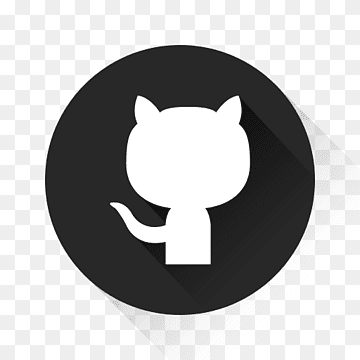
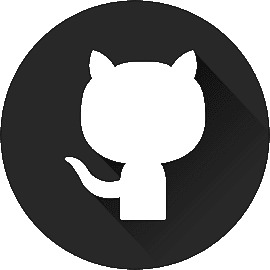
almost

diff --git a/home.html b/home.html
@@ -58,12 +58,15 @@
     </div>
 
     <div id="images">
-      <img id="whatsappimg" src="assets/images/whatsapp-icon.png" alt="whatsapp"/>
-      <img id="instagramimg" src="assets/images/instagram.png" alt="instagram"/>
-      <img id="youtubeimg" src="assets/images/youtube.png" alt="youtube" />
-      <img id="tiktokimg" src="assets/images/tiktok.png" alt="tiktok" />
-      <img id="twitterimg" src="assets/images/twitter.png" alt="twitter" />
-
+      <a href="https://web.whatsapp.com/" ><img id="whatsappimg" src="assets/images/whatsapp-icon.png" alt="whatsapp"/></a>
+      <a href="https://www.instagram.com/" ><img id="instagramimg" src="assets/images/instagram.png" alt="instagram"/></a>
+      <a href="https://www.youtube.com/" ><img id="youtubeimg" src="assets/images/youtube.png" alt="youtube" /></a>
+      <a href="https://www.tiktok.com/en/" ><img id="tiktokimg" src="assets/images/tiktok.png" alt="tiktok" /></a>
+      <a href="https://twitter.com/?lang=en" ><img id="twitterimg" src="assets/images/twitter.png" alt="twitter" /></a>
+      <a href="https://twitter.com/?lang=en" ><img id="telegramimg" src="assets/images/telegram.png" alt="telegram" /></a>
+      <a href="https://www.google.com/" ><img id="googleimg" src="assets/images/google.png" alt="google" /></a>
+      <a href="https://twitter.com/?lang=en" ><img id="githubimg" src="assets/images/github.png" alt="github" /></a>
+      <a href="https://twitter.com/?lang=en" ><img id="facebookimg" src="assets/images/facebook.png" alt="facebook" /></a>
     </div>
 
     <script src="music.js"></script>

diff --git a/home.css b/home.css
@@ -210,3 +210,23 @@ li {
   height: 100px;
   width: 100px;
 }
+
+#facebookimg {
+  height: 100px;
+  width: 100px;
+}
+
+#githubimg {
+  height: 100px;
+  width: 100px;
+}
+
+#googleimg {
+  height: 100px;
+  width: 100px;
+}
+
+#telegramimg {
+  height: 100px;
+  width: 100px;
+}
